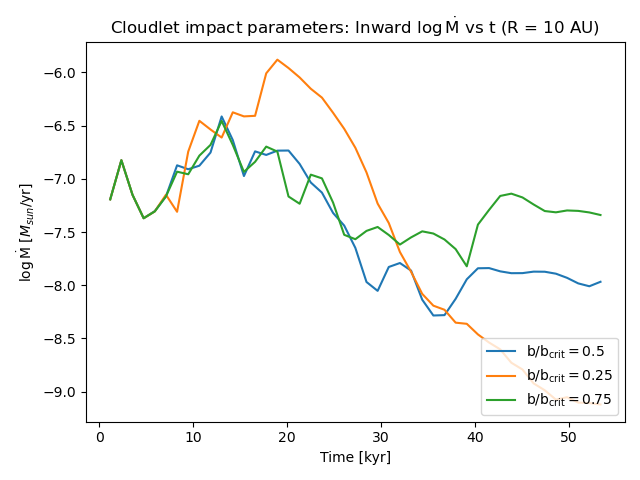
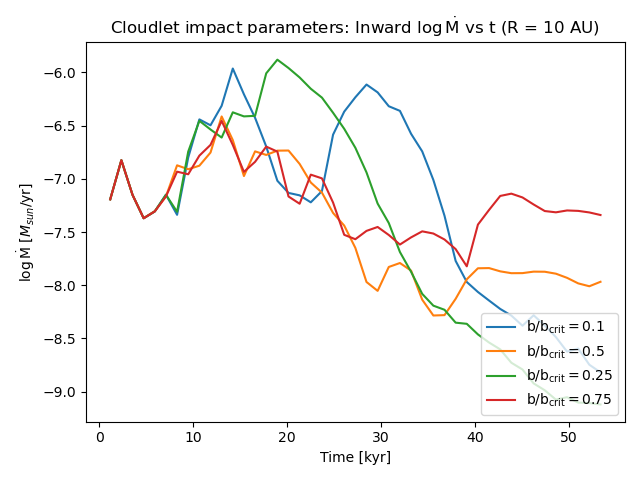
added b01 to mass vs r and accretion rate plots

diff --git a/mass_vs_r.py b/mass_vs_r.py
@@ -517,8 +517,8 @@ def main():
     ####################### Compare radial mass dist., Mdot for different impact parameters ########################
 
 
-    b_folders = [Path("../fargo3d/outputs/cloud_disk_it450_rotXY45"), Path("../fargo3d/outputs/cloud_disk_it450_b025_rotXY45"), Path("../fargo3d/outputs/cloud_disk_it450_b075_rotXY45")]
-    b_labels = {"cloud_disk_it450_rotXY45": r"$\mathrm{b / b_{crit} = 0.5}$", "cloud_disk_it450_b025_rotXY45": r"$\mathrm{b / b_{crit} = 0.25}$", "cloud_disk_it450_b075_rotXY45": r"$\mathrm{b / b_{crit} = 0.75}$"}
+    b_folders = [Path("../fargo3d/outputs/cloud_disk_it450_b01_rotXY45"), Path("../fargo3d/outputs/cloud_disk_it450_rotXY45"), Path("../fargo3d/outputs/cloud_disk_it450_b025_rotXY45"), Path("../fargo3d/outputs/cloud_disk_it450_b075_rotXY45")]
+    b_labels = {"cloud_disk_it450_b01_rotXY45": r"$\mathrm{b / b_{crit} = 0.1}$", "cloud_disk_it450_rotXY45": r"$\mathrm{b / b_{crit} = 0.5}$", "cloud_disk_it450_b025_rotXY45": r"$\mathrm{b / b_{crit} = 0.25}$", "cloud_disk_it450_b075_rotXY45": r"$\mathrm{b / b_{crit} = 0.75}$"}
 
     ####### Mass distribution calculations
 
